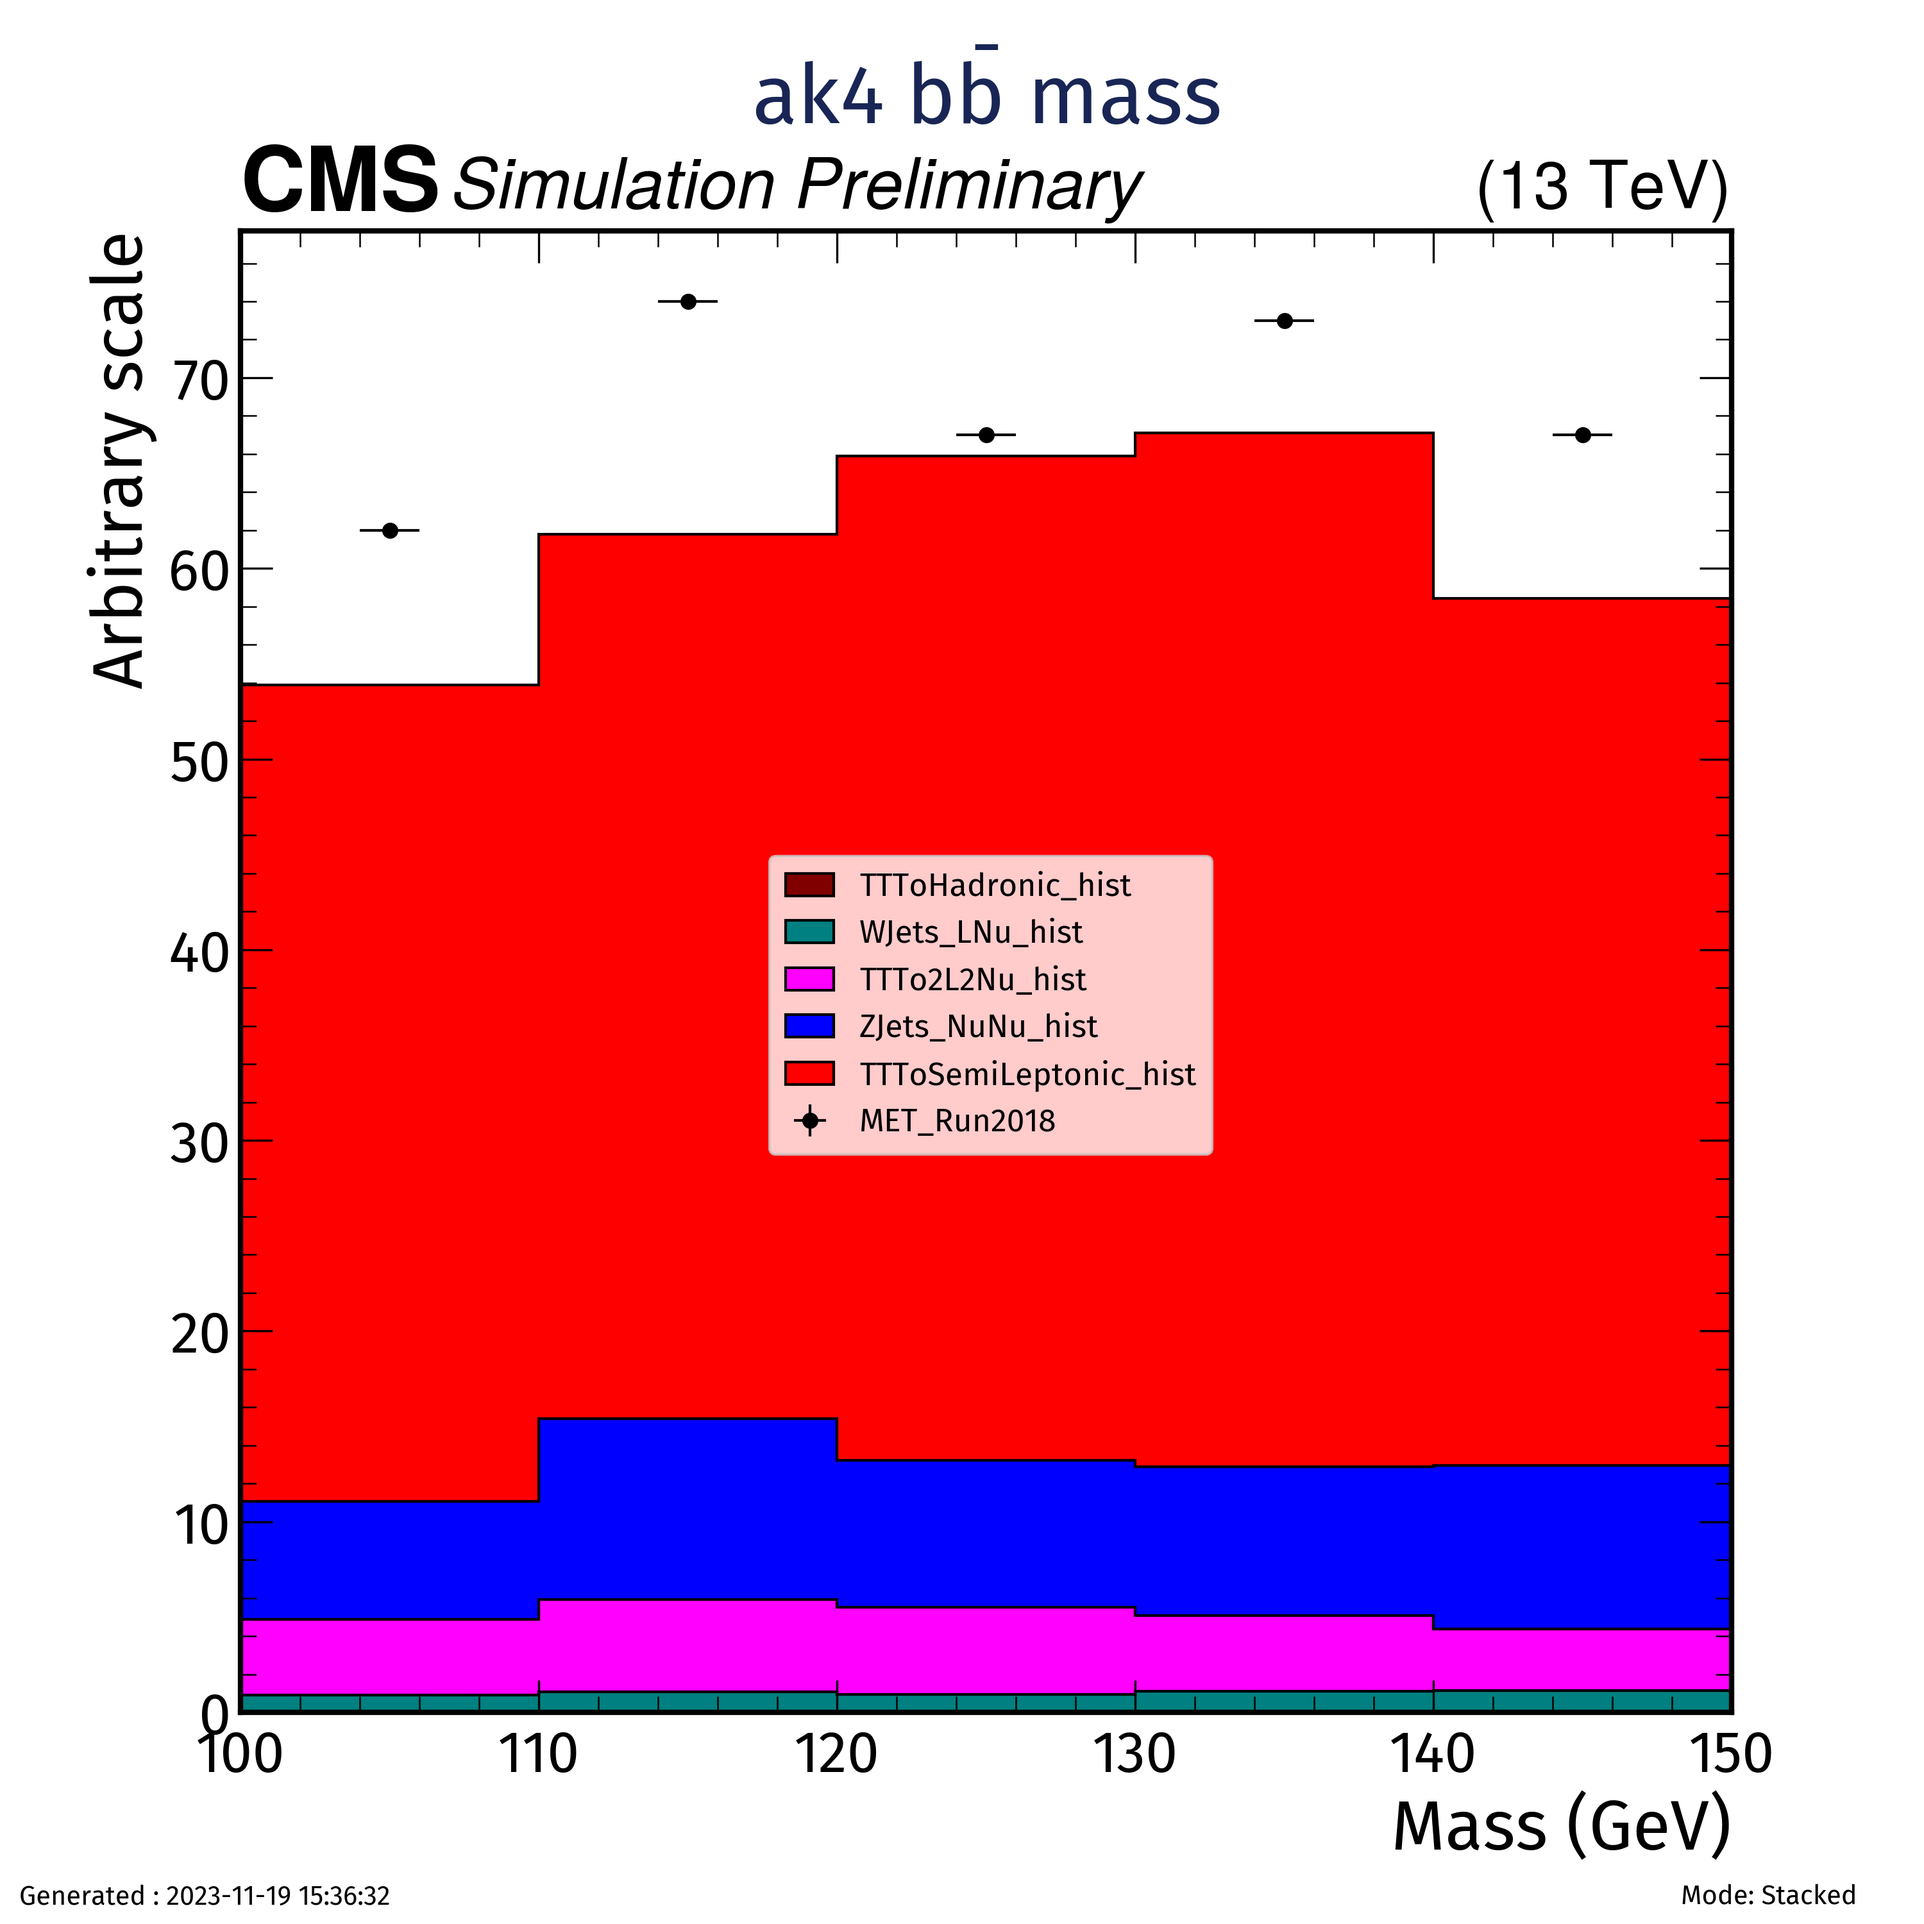
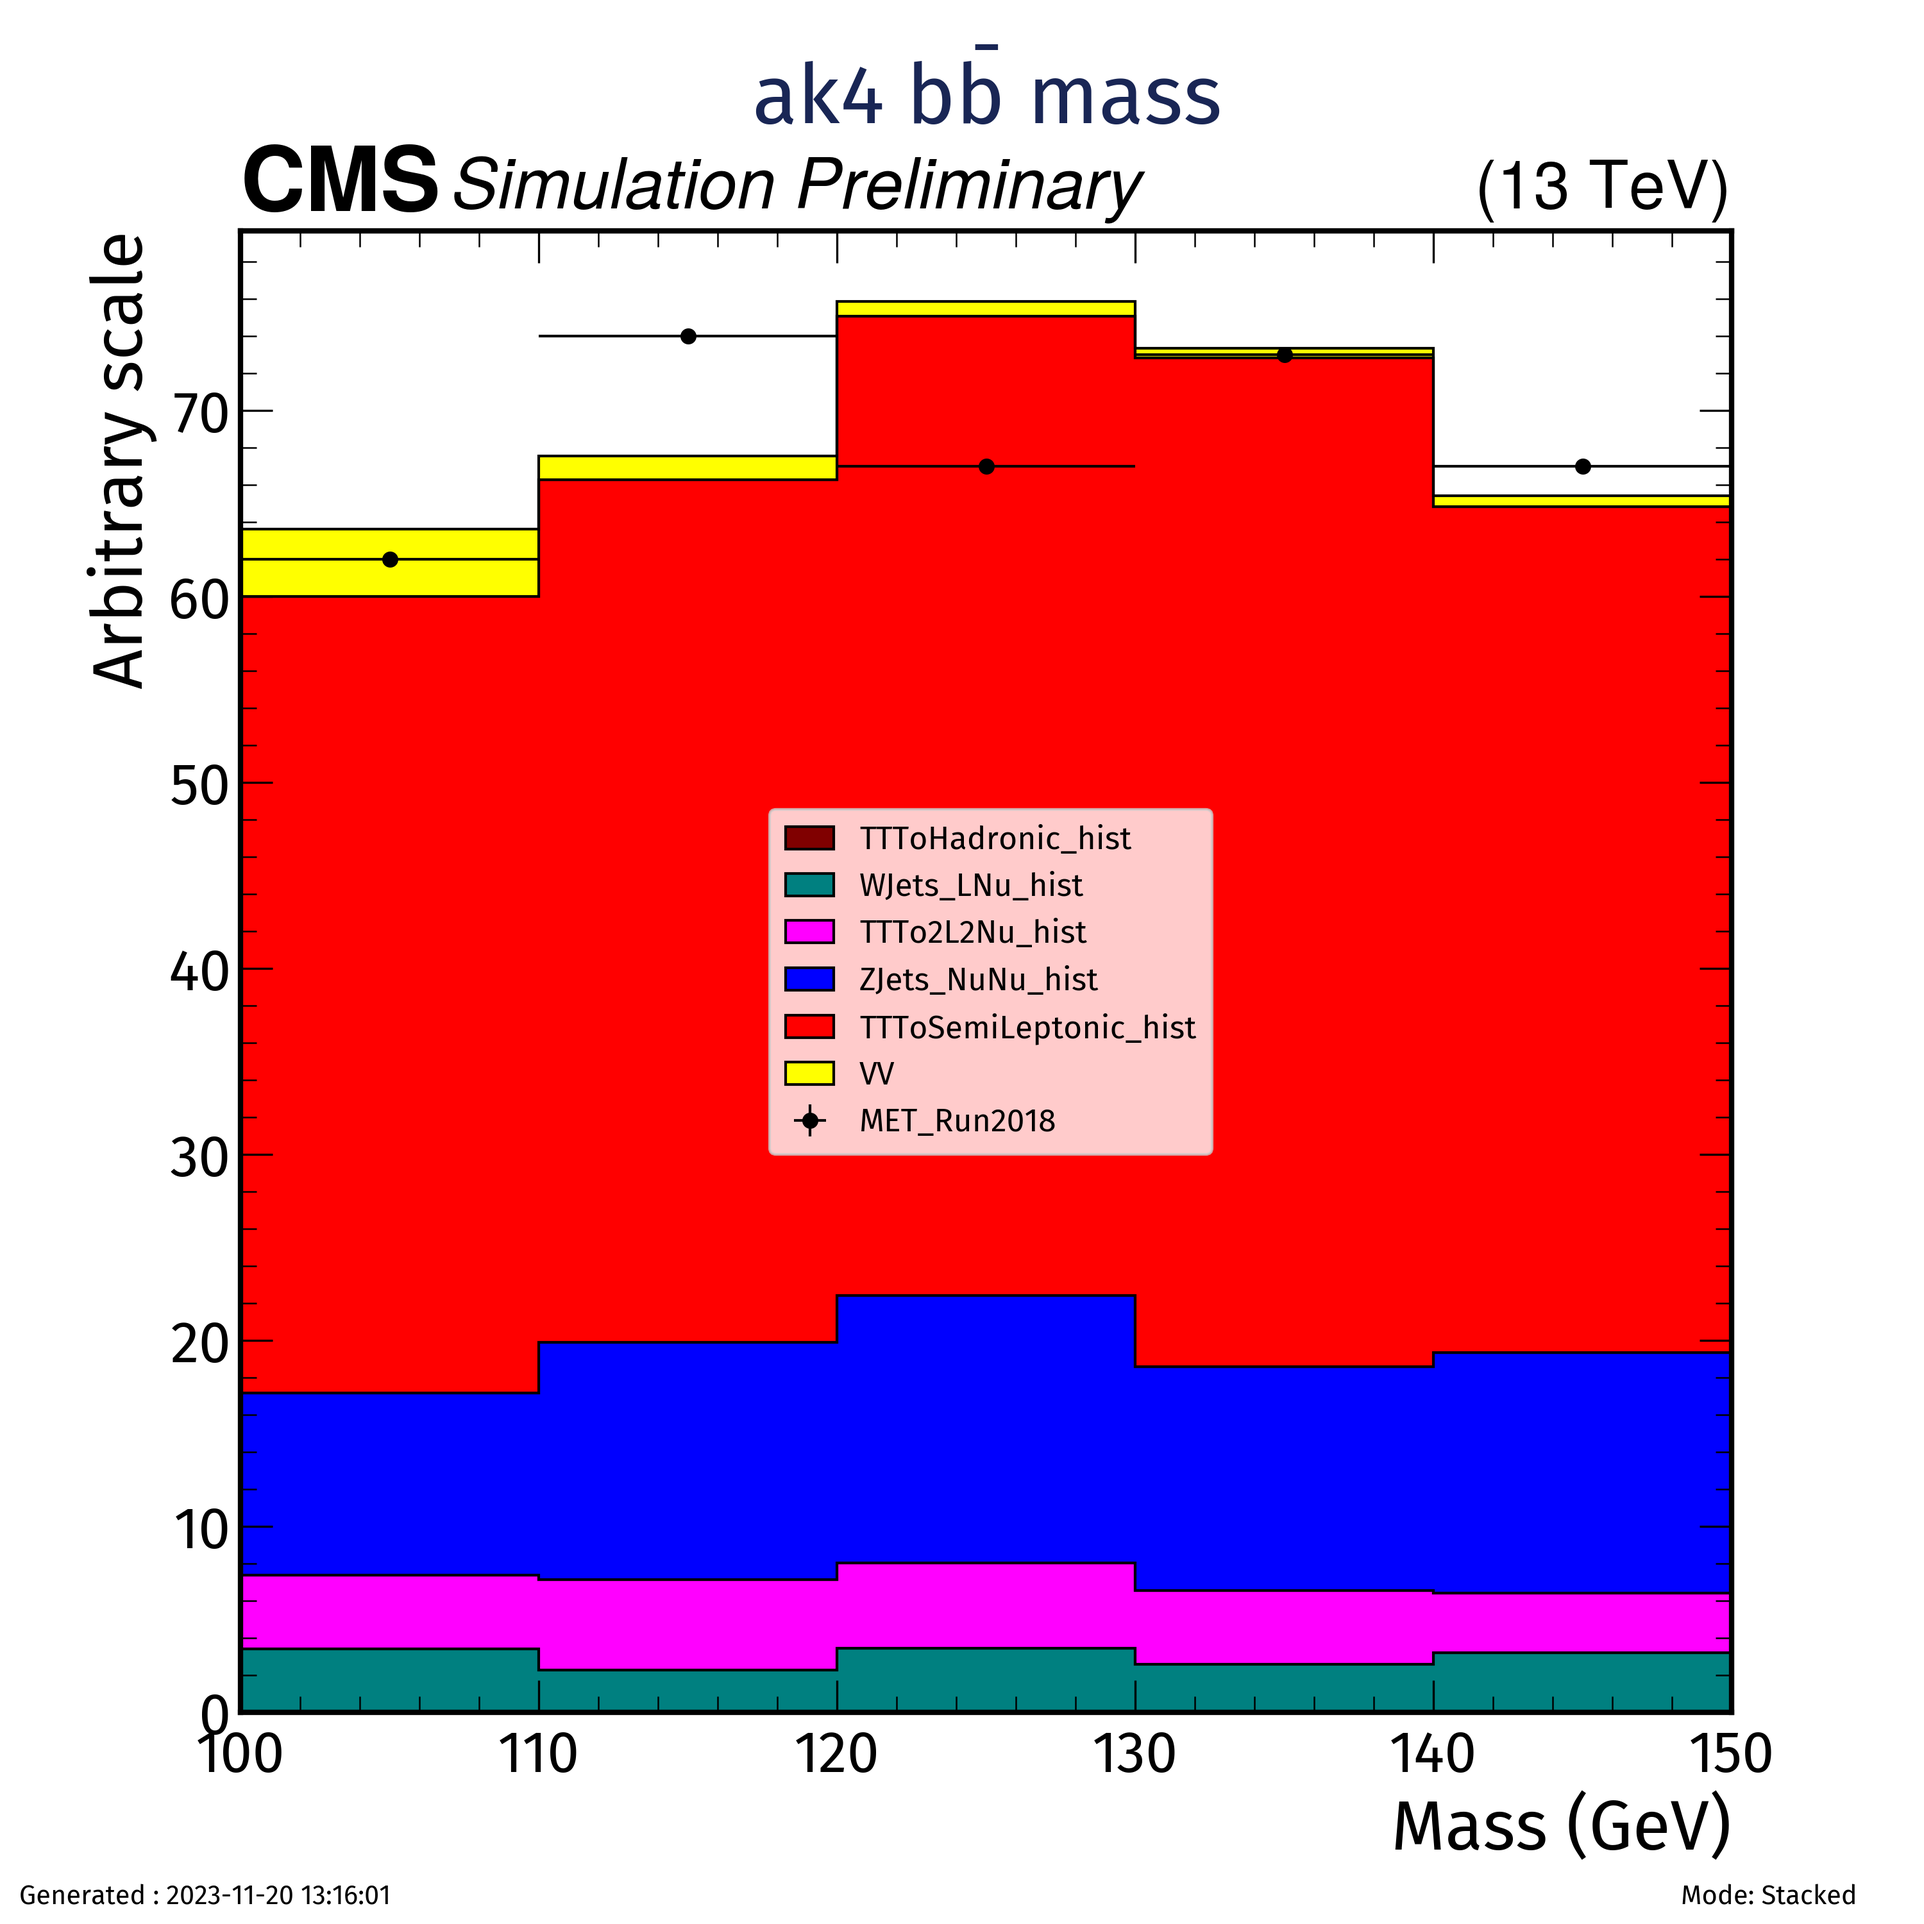
Automated Commit

diff --git a/Backgrounds/plotter_SR_Resolved_Backgrounds.py b/Backgrounds/plotter_SR_Resolved_Backgrounds.py
@@ -166,6 +166,9 @@ def combined_plot_manual(Output,norm = False , xsec = False):
         elif key.startswith("DYJets_LL"):
             for subkey in Output[key].keys():
                 DYJets_LL_hists[subkey] = Output[key][subkey]["Histograms"]["dijets_mass"]
+        # elif ( key.startswith("WW") | key.startswith("WZ") | key.startswith("ZZ") ) :
+        #     for subkey in Output[key].keys():
+        #         VV_hists[subkey] = Output[key][subkey]["Histograms"]["dijets_mass"]
         elif key.startswith("VV"):
             for subkey in Output[key].keys():
                 VV_hists[subkey] = Output[key][subkey]["Histograms"]["dijets_mass"]
@@ -217,6 +220,31 @@ def combined_plot_manual(Output,norm = False , xsec = False):
             "WJets_LNu_WPt_400To600_18": crossSections.crossSections["WJets_LNu_WPt_400To600_18"],
             "WJets_LNu_WPt_600Toinf_18": crossSections.crossSections["WJets_LNu_WPt_600Toinf_18"],
         }
+
+        DYJets_LL_xsec = {
+            "DYJets_LL_HT_70To100_18": crossSections.crossSections["DYJets_LL_HT_70To100_18"],
+            "DYJets_LL_HT_100To200_18": crossSections.crossSections["DYJets_LL_HT_100To200_18"],
+            "DYJets_LL_HT_200To400_18": crossSections.crossSections["DYJets_LL_HT_200To400_18"],
+            "DYJets_LL_HT_400To600_18": crossSections.crossSections["DYJets_LL_HT_400To600_18"],
+            "DYJets_LL_HT_600To800_18": crossSections.crossSections["DYJets_LL_HT_600To800_18"],
+            "DYJets_LL_HT_800To1200_18": crossSections.crossSections["DYJets_LL_HT_800To1200_18"],
+            "DYJets_LL_HT_1200To2500_18": crossSections.crossSections["DYJets_LL_HT_1200To2500_18"],
+            "DYJets_LL_HT_2500ToInf_18": crossSections.crossSections["DYJets_LL_HT_2500ToInf_18"]
+        }
+
+        VV_xsec = {
+            "WZ_1L1Nu2Q_18": crossSections.crossSections["WZ_1L1Nu2Q_18"],
+            "WZ_2L2Q_18": crossSections.crossSections["WZ_2L2Q_18"],
+            #"WZ_2Q2Nu_18": crossSections.crossSections["WZ_2Q2Nu_18"],
+            "WZ_3L1Nu_18" : crossSections.crossSections["WZ_3L1Nu_18"],
+            "ZZ_2L2Nu_18": crossSections.crossSections["ZZ_2L2Nu_18"],
+            "ZZ_2L2Q_18": crossSections.crossSections["ZZ_2L2Q_18"],
+            "ZZ_2Q2Nu_18": crossSections.crossSections["ZZ_2Q2Nu_18"],
+            "ZZ_4L_18": crossSections.crossSections["ZZ_4L_18"],
+            "WW_2L2Nu_18": crossSections.crossSections["WW_2L2Nu_18"],
+            "WW_1L1Nu2Q_18": crossSections.crossSections["WW_1L1Nu2Q_18"],
+        }
+
         #compute weight_factor for ZJets_NuNu 
         N_i = {}
         ZJets_NuNu_weight_factor = {}
@@ -251,6 +279,13 @@ def combined_plot_manual(Output,norm = False , xsec = False):
         for subkey in WJets_LNu_xsec.keys() :
             N_i[subkey] = Output["WJets_LNu"][subkey]["Cutflow"]["Total events"]
             WJets_LNu_weight_factor[subkey] = ( lumi * WJets_LNu_xsec[subkey] )/N_i[subkey]
+
+        #compute weight_factor for VV
+        N_i = {}
+        VV_weight_factor = {}
+        for subkey in VV_xsec.keys() :
+            N_i[subkey] = Output["VV"][subkey]["Cutflow"]["Total events"]
+            VV_weight_factor[subkey] = ( lumi * VV_xsec[subkey] )/N_i[subkey]
         
         #Simply add up the data histograms
         MET_Run2018_hists_list=[]
@@ -268,9 +303,12 @@ def combined_plot_manual(Output,norm = False , xsec = False):
             for key in key_hists.keys() :
                 key_hists[key] *= key_weight_factor[key]
                 key_hists_list.append(key_hists[key])
+            #print(key_hists_list)
             key_hist = key_hists_list[0]
             for histogram in key_hists_list[1:] :
-                key_hist += key_hists[key]
+                key_hist += histogram
+                #key_hist += key_hists[key]
+                print(key_hist)
             return key_hist
         
         ZJets_NuNu_hist = hist_xsec(ZJets_NuNu_hists , ZJets_NuNu_weight_factor)
@@ -278,6 +316,10 @@ def combined_plot_manual(Output,norm = False , xsec = False):
         TTTo2L2Nu_hist = hist_xsec(TTTo2L2Nu_hists, TTTo2L2Nu_weight_factor)
         TTToHadronic_hist = hist_xsec(TTToHadronic_hists, TTToHadronic_weight_factor)
         WJets_LNu_hist = hist_xsec(WJets_LNu_hists, WJets_LNu_weight_factor)
+        VV_hist = hist_xsec(VV_hists, VV_weight_factor)
+        print("VV_hists",VV_hists)
+        print("VV_weight_factor",VV_weight_factor)
+        print("VV_hist",VV_hist.values())
 
         # Zjets_hists_list = []
         # for key in ZJets_NuNu_hists.keys() :
@@ -297,7 +339,9 @@ def combined_plot_manual(Output,norm = False , xsec = False):
             ZJets_NuNu_hist.sum()+
             TTToSemiLeptonic_hist.sum()+
             TTTo2L2Nu_hist.sum()+
-            TTToHadronic_hist.sum()
+            TTToHadronic_hist.sum()+
+            WJets_LNu_hist.sum()+
+            VV_hist.sum()
             )
 
     fig, ax = plt.subplots()
@@ -307,11 +351,12 @@ def combined_plot_manual(Output,norm = False , xsec = False):
         color="black",
         #marker=[],
         label="MET_Run2018",
-        xerr = 1,
-        yerr= 0,
+        xerr = 5,
+        yerr=0,
         lw=1,
         ax=ax
         )
+    #print(VV_hist)
     hep.histplot(
         [
             norm_factor*TTToHadronic_hist,
@@ -319,11 +364,12 @@ def combined_plot_manual(Output,norm = False , xsec = False):
             norm_factor*TTTo2L2Nu_hist,
             norm_factor*ZJets_NuNu_hist,
             norm_factor*TTToSemiLeptonic_hist,
+            norm_factor*VV_hist
             ],
         histtype="fill",
-        color=["maroon","teal","magenta","blue","red"],
+        color=["maroon","teal","magenta","blue","red","yellow"],
         #marker=[],
-        label=["TTToHadronic_hist","WJets_LNu_hist","TTTo2L2Nu_hist","ZJets_NuNu_hist","TTToSemiLeptonic_hist"],
+        label=["TTToHadronic_hist","WJets_LNu_hist","TTTo2L2Nu_hist","ZJets_NuNu_hist","TTToSemiLeptonic_hist","VV"],
         edgecolor="black",
         stack=True,
         lw=1,
@@ -439,6 +485,8 @@ match inputs.fulldataset :
         #showinfo(TTToHadronic)
         WJets_LNu = accum("WJets_LNu")
         #showinfo(WJets_LNu)
+        VV = accum("VV")
+        #showinfo (VV)
         
         
     case 0 :
@@ -448,10 +496,11 @@ match inputs.fulldataset :
         WJets_LNu = util.load("SR_Resolved_Backgrounds_WJets_LNu.coffea")
         TTTo2L2Nu = util.load("SR_Resolved_Backgrounds_TTTo2L2Nu.coffea")
         TTToHadronic = util.load("SR_Resolved_Backgrounds_TTToHadronic.coffea")
-master_dict = processor.accumulate([MET_Run2018,ZJets_NuNu,TTToSemiLeptonic,WJets_LNu,TTTo2L2Nu,TTToHadronic])
+        VV = util.load("SR_Resolved_Backgrounds_VV.coffea")
+master_dict = processor.accumulate([MET_Run2018,ZJets_NuNu,TTToSemiLeptonic,WJets_LNu,TTTo2L2Nu,TTToHadronic,VV])
 util.save(master_dict, "BackgroundDijets.coffea")
-showinfo(master_dict)
+#showinfo(master_dict)
 #plotall(master_dict)
 #combined_plot(master_dict)
 combined_plot_manual(master_dict,norm=False, xsec=True)
-plotcutflow(master_dict)
+#plotcutflow(master_dict)
